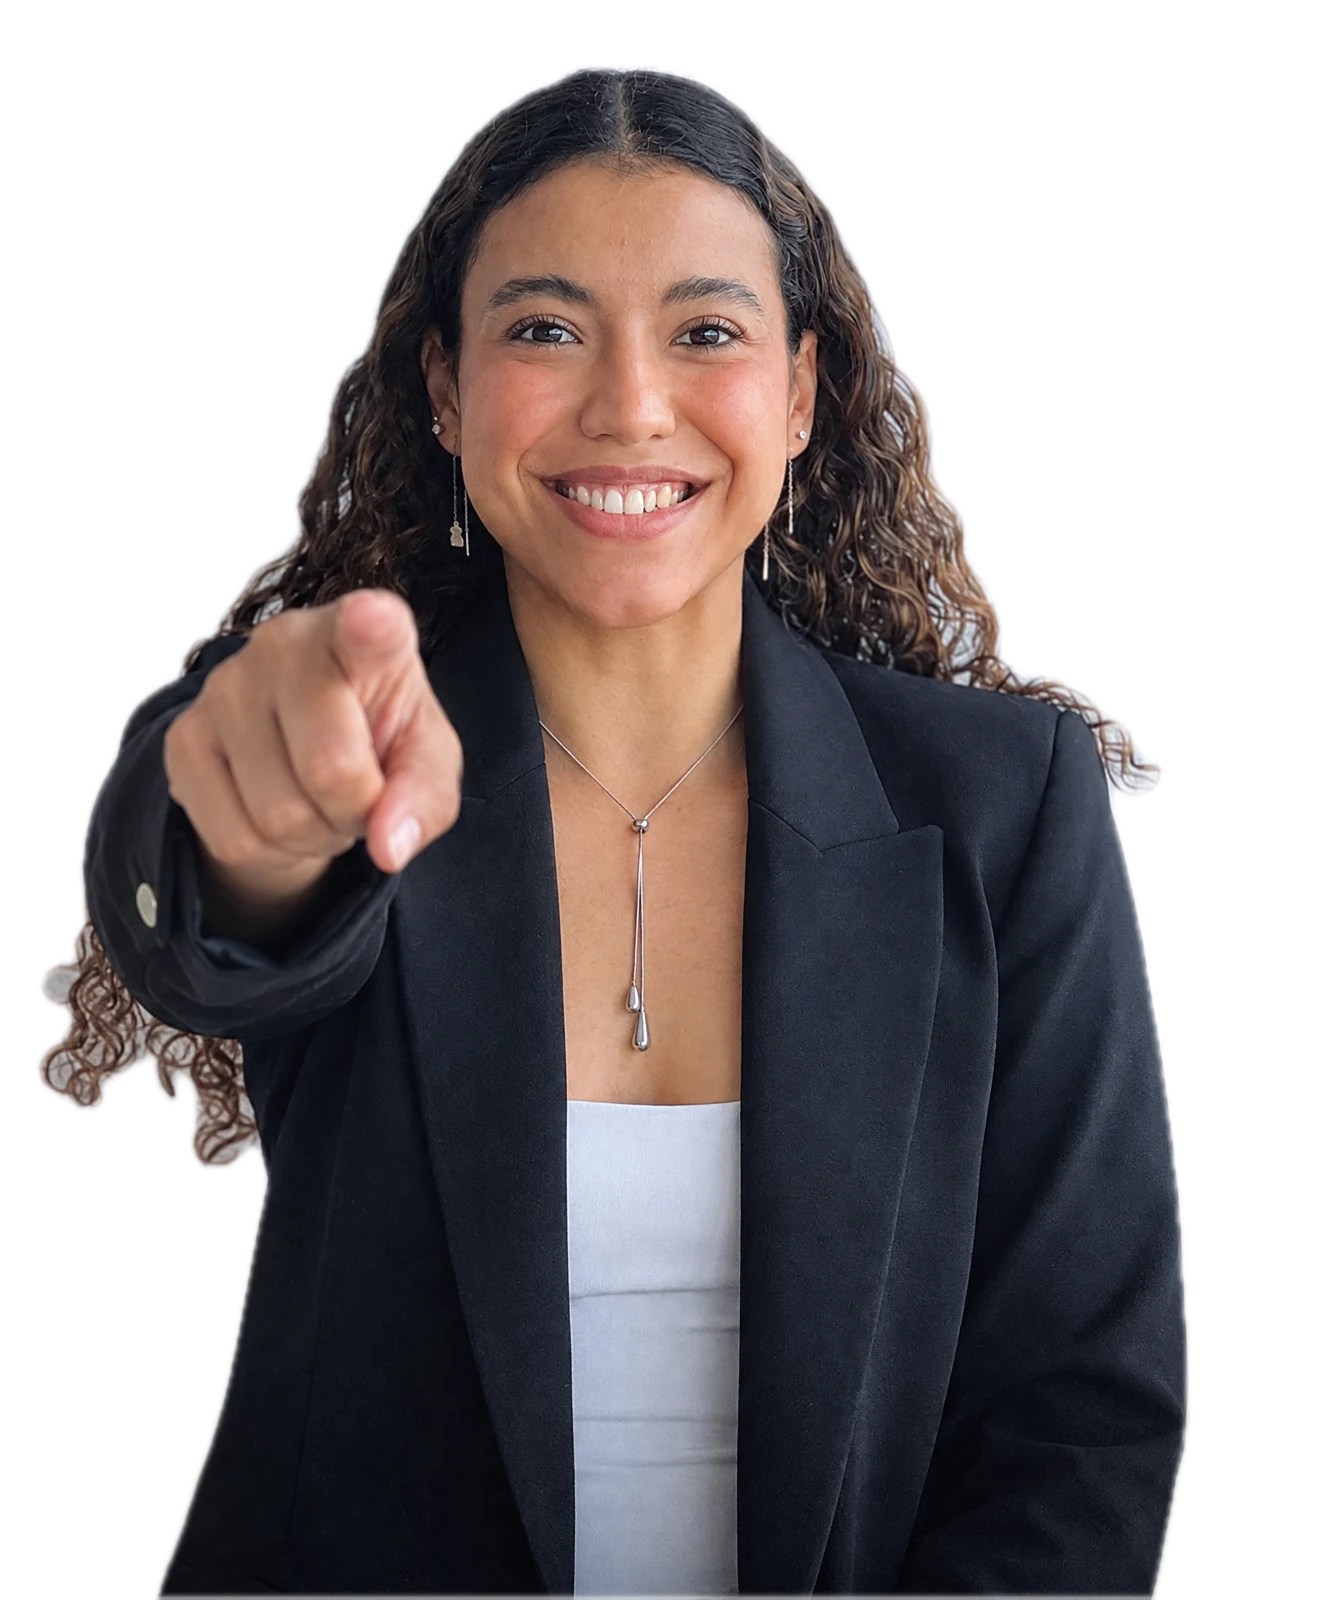
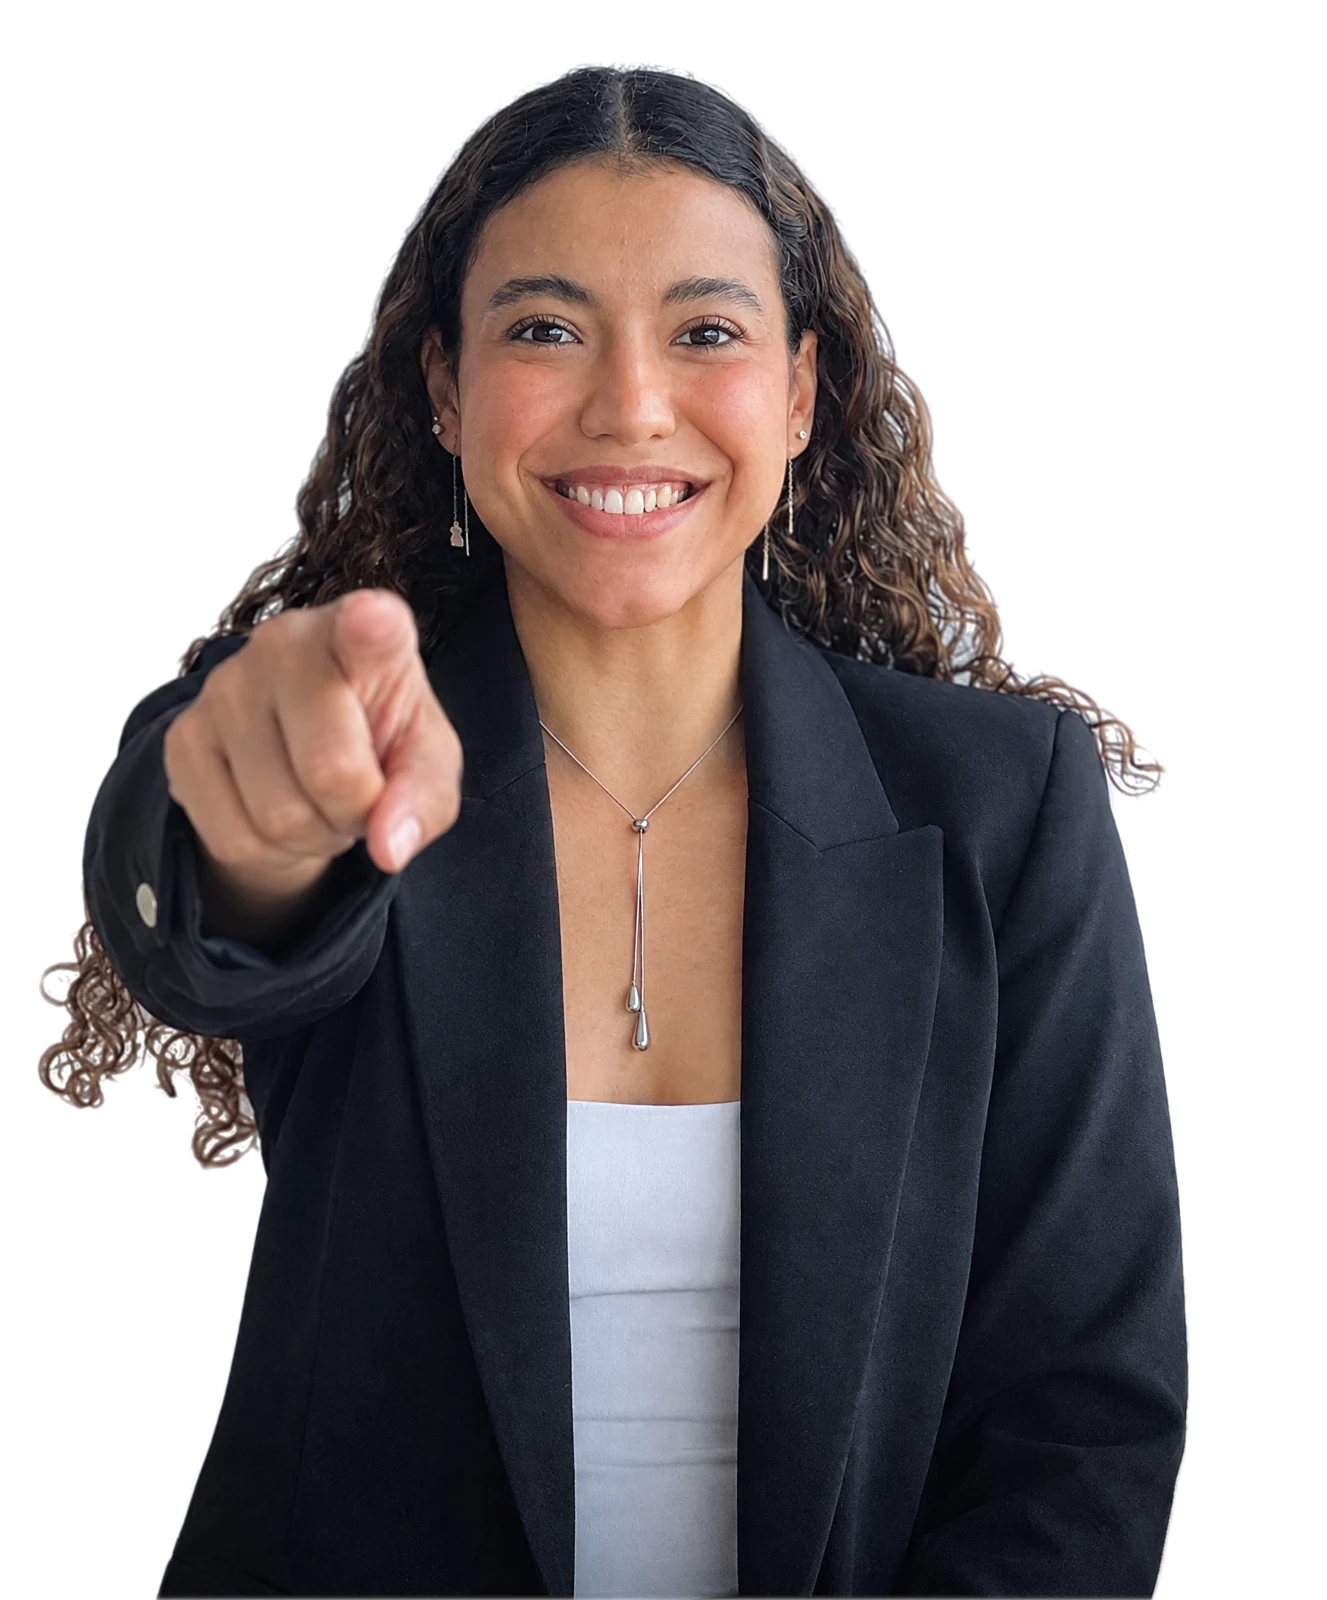
Cleaner hero cutout; keep the original photo in About

diff --git a/index.html b/index.html
@@ -505,7 +505,7 @@
       <div class="shell b-portrait reveal" data-cursor="Hola!">
         <div class="core">
           <div class="tag"><span>Paola Cano Gómez</span><span>2026</span></div>
-          <img src="assets/paola.webp" alt="" width="1327" height="1600" loading="lazy">
+          <img src="assets/paola-about.webp" alt="" width="730" height="1050" loading="lazy">
         </div>
       </div>
       <div class="shell b-bio reveal d1">
